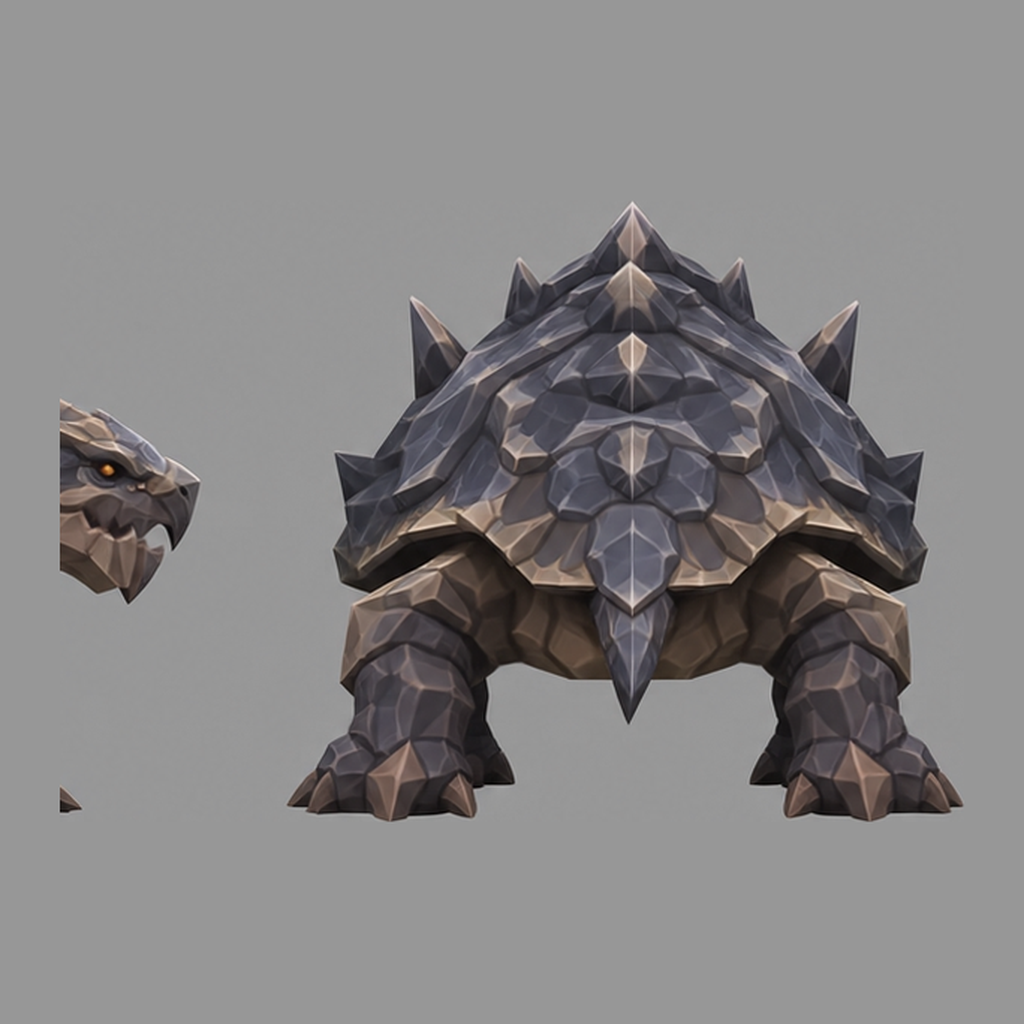
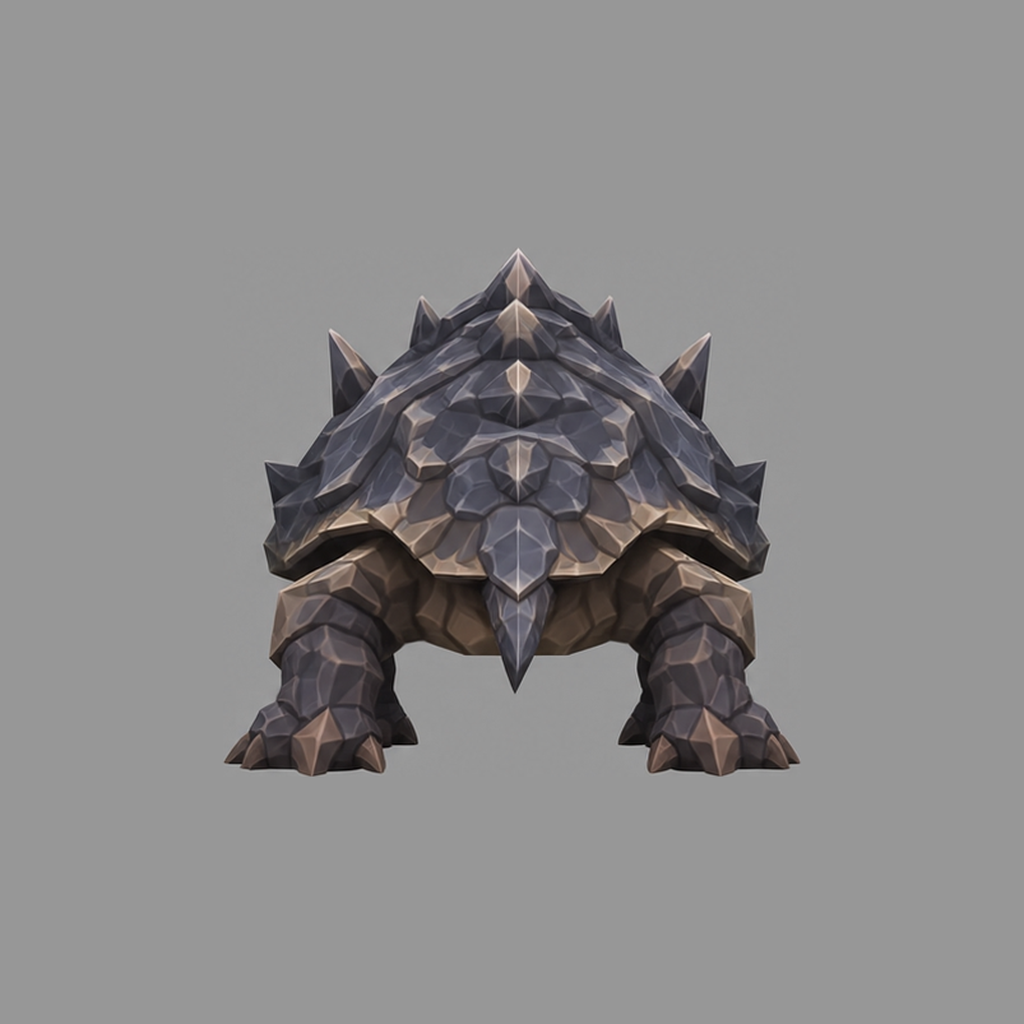
Shellback-Ansichten aus dem Raster nach Inhalt neu geschnitten, Sandwurm mit rundem Maul, Backlog G3

Changed region(s): [[0.2188, 0.1875, 0.9375, 0.8125], [0.0312, 0.375, 0.2188, 0.5938], [0.0625, 0.7812, 0.0938, 0.8125]]

diff --git a/PROMPTS_ALLE.md b/PROMPTS_ALLE.md
@@ -524,7 +524,7 @@ Image 1 is my concept art of this creature - a small, blurry crop: take the over
 
 Paint ONE clean, sharp, high-resolution design image of my creature "Sand Leviathan". Stay true to the concept - same character, silhouette, body parts and colors - but redraw it cleanly with these details:
 
-A huge, legless desert worm - ancient, crushing and terrifying, bursting out of the dunes. The body is long and thick and made of ribbed, ring-shaped segments, sandy beige and ochre with darker brown bands between the rings, tapering toward the tail end. Toward the head the segments become darker and rougher, rust-red and brown, with ragged armor plates. The head is a long, crocodile-like maw packed with jagged teeth, framed by rows of hooked spines and tooth-like tendrils around the jaws and throat. Small dark eyes sit on top of the head. Materials: tough, dry, ribbed hide on the body, bony armor on the head.
+A huge, legless desert worm - ancient, crushing and terrifying, bursting out of the dunes. The body is long and thick and made of ribbed, ring-shaped segments, sandy beige and ochre with darker brown bands between the rings, tapering toward the tail end. Toward the head the segments become darker and rougher, rust-red and brown, with ragged armor plates. The head ends in a wide, round maw like a lamprey's: rings of long, inward-curving fangs around a dark red throat, framed by a ruff of hooked spines and tooth-like tendrils. The armored head behind the maw carries small dark eyes. Materials: tough, dry, ribbed hide on the body, bony armor on the head.
 
 Style: clean low-poly stylized game creature: faceted planar surfaces with crisp edges, simplified chunky shapes, bold readable silhouette that reads well from a top-down camera, strong color blocking with simple painted gradients per facet, colorful yet dark palette, gameplay-focused readability, rendered like a stylized low-poly 3D game asset.
 
@@ -538,7 +538,7 @@ Anhängen: 1. `H:\AIProjects\3D AI\01_kreatur_pipeline\creatures\sand_leviathan\
 ```text
 Image 1 is the approved, binding design of my creature "Sand Leviathan": keep its anatomy, shapes, colors, materials, style and the number of all parts exactly. Do not redesign, add or remove anything.
 
-Description (also for the hidden sides): A huge, legless desert worm - ancient, crushing and terrifying, bursting out of the dunes. The body is long and thick and made of ribbed, ring-shaped segments, sandy beige and ochre with darker brown bands between the rings, tapering toward the tail end. Toward the head the segments become darker and rougher, rust-red and brown, with ragged armor plates. The head is a long, crocodile-like maw packed with jagged teeth, framed by rows of hooked spines and tooth-like tendrils around the jaws and throat. Small dark eyes sit on top of the head. Materials: tough, dry, ribbed hide on the body, bony armor on the head.
+Description (also for the hidden sides): A huge, legless desert worm - ancient, crushing and terrifying, bursting out of the dunes. The body is long and thick and made of ribbed, ring-shaped segments, sandy beige and ochre with darker brown bands between the rings, tapering toward the tail end. Toward the head the segments become darker and rougher, rust-red and brown, with ragged armor plates. The head ends in a wide, round maw like a lamprey's: rings of long, inward-curving fangs around a dark red throat, framed by a ruff of hooked spines and tooth-like tendrils. The armored head behind the maw carries small dark eyes. Materials: tough, dry, ribbed hide on the body, bony armor on the head.
 
 Create 4 SEPARATE images (not a grid) of exactly this creature - one frozen 3D model, the camera circles around it:
 1. front.png - facing the camera

diff --git a/creatures/sand_leviathan/prompts.md b/creatures/sand_leviathan/prompts.md
@@ -16,7 +16,7 @@ Image 1 is my concept art of this creature - a small, blurry crop: take the over
 
 Paint ONE clean, sharp, high-resolution design image of my creature "Sand Leviathan". Stay true to the concept - same character, silhouette, body parts and colors - but redraw it cleanly with these details:
 
-A huge, legless desert worm - ancient, crushing and terrifying, bursting out of the dunes. The body is long and thick and made of ribbed, ring-shaped segments, sandy beige and ochre with darker brown bands between the rings, tapering toward the tail end. Toward the head the segments become darker and rougher, rust-red and brown, with ragged armor plates. The head is a long, crocodile-like maw packed with jagged teeth, framed by rows of hooked spines and tooth-like tendrils around the jaws and throat. Small dark eyes sit on top of the head. Materials: tough, dry, ribbed hide on the body, bony armor on the head.
+A huge, legless desert worm - ancient, crushing and terrifying, bursting out of the dunes. The body is long and thick and made of ribbed, ring-shaped segments, sandy beige and ochre with darker brown bands between the rings, tapering toward the tail end. Toward the head the segments become darker and rougher, rust-red and brown, with ragged armor plates. The head ends in a wide, round maw like a lamprey's: rings of long, inward-curving fangs around a dark red throat, framed by a ruff of hooked spines and tooth-like tendrils. The armored head behind the maw carries small dark eyes. Materials: tough, dry, ribbed hide on the body, bony armor on the head.
 
 Style: clean low-poly stylized game creature: faceted planar surfaces with crisp edges, simplified chunky shapes, bold readable silhouette that reads well from a top-down camera, strong color blocking with simple painted gradients per facet, colorful yet dark palette, gameplay-focused readability, rendered like a stylized low-poly 3D game asset.
 
@@ -33,7 +33,7 @@ Neuer ChatGPT-Chat. **Anhängen:** 1. `H:\AIProjects\3D AI\01_kreatur_pipeline\c
 ```text
 Image 1 is the approved, binding design of my creature "Sand Leviathan": keep its anatomy, shapes, colors, materials, style and the number of all parts exactly. Do not redesign, add or remove anything.
 
-Description (also for the hidden sides): A huge, legless desert worm - ancient, crushing and terrifying, bursting out of the dunes. The body is long and thick and made of ribbed, ring-shaped segments, sandy beige and ochre with darker brown bands between the rings, tapering toward the tail end. Toward the head the segments become darker and rougher, rust-red and brown, with ragged armor plates. The head is a long, crocodile-like maw packed with jagged teeth, framed by rows of hooked spines and tooth-like tendrils around the jaws and throat. Small dark eyes sit on top of the head. Materials: tough, dry, ribbed hide on the body, bony armor on the head.
+Description (also for the hidden sides): A huge, legless desert worm - ancient, crushing and terrifying, bursting out of the dunes. The body is long and thick and made of ribbed, ring-shaped segments, sandy beige and ochre with darker brown bands between the rings, tapering toward the tail end. Toward the head the segments become darker and rougher, rust-red and brown, with ragged armor plates. The head ends in a wide, round maw like a lamprey's: rings of long, inward-curving fangs around a dark red throat, framed by a ruff of hooked spines and tooth-like tendrils. The armored head behind the maw carries small dark eyes. Materials: tough, dry, ribbed hide on the body, bony armor on the head.
 
 Create 4 SEPARATE images (not a grid) of exactly this creature - one frozen 3D model, the camera circles around it:
 1. front.png - facing the camera

diff --git a/BACKLOG.md b/BACKLOG.md
@@ -52,6 +52,7 @@ Status: ✅ erledigt · 🔄 Subagent arbeitet · ⏭ als Nächstes · ⏸ zurü
 |---|---|---|
 | G1 | Monster-Datenbank `H:\AIProjects\poe2-MTXeastCatalog\data\catalog.json` (alle PoE-Monster) eigenständig auswerten: Monsterarten auflisten, semantisch in 3D-Kategorien einordnen → lange Liste, welche **Skelette und Bewegungsmuster** wir noch brauchen und welche **Monsterarten zu unserem Game passen**. **Inspiration, keine Kopie!** Ziel des Spiels: später mindestens **50–100 Basis-Monster**, je 5–6 Biom-Varianten oder Elite-Addons. Hinweis des Nutzers: von 7.133 Einträgen sind nur ~2.800 echte Monster, der Rest Varianten. | ✅ `RECHERCHE_MONSTERARTEN.md` (2.872 echte Monster, Stand DB 2026-11-17T20:25Z, Schema v2). Vorhandene 8 Skelette decken 71,9 % der Kreaturen; mit `upright`, `winged`, `amorph`, `static` 99,9 %. 83 generische Basis-Archetypen, 6er-Variantenschema, Reihenfolge: spider → leopard/bear → upright (golem, brute) → wraith/orb → winged → static → slime → frog/badger/monkey. Zuordnung: `temp/monster_research/kategorien.csv`. |
 | G2 | Recherche-Bericht lesen; offene Roster-Liste mit den Erkenntnissen erweitern; je Lücke 2–3 konkrete Kreatur-Vorschläge mit passendem Bewegungsmuster, Nutzer wählt aus. | ✅ Nutzer 2026-11-18: für **alle 16** Zeilen Kreaturen anlegen, Claude wählt; Biome erweitern. Erledigt (Agent Roster-Erweiterung): `templates/biomes.toml` (18 Biome), 16 Kreaturen in `creatures/roster.toml` mit `biome`/`role`/6 `varianten`, Ordner + creature.toml + prompts.md (ohne Concept: Stufe 1 = Design-Entwurf, du prüfst), neue Baupläne upright/winged/floater/amorph/static, PROMPTS_ALLE.md mit 36 Kreaturen. Auswahl: `ROSTER_ERWEITERUNG_VORSCHLAG.md` → „Gewählt“. ❓ Nutzer: Auswahl und Design-Bilder prüfen. |
+| G3 | Nächste Bewegungsmuster (Nutzer 2026-11-18): mantis, spider, tortoise, gorilla, sandworm, frog, monkey, centipede, treant, drake, bird. Zuerst Broodling, Shellback, Sand Leviathan zu Tripo. Shellback sorgfältig neu schneiden. Sandwurm: **rundes Maul behalten** (besser als Krokodilmaul). | 🔄 Shellback aus `grid_4_ansichten.png` nach Inhalt neu geschnitten (Köpfe waren ins Nachbarbild gerutscht), gemeinsamer Maßstab; Sandwurm-`look` auf rundes Maul. Mantis/Gorilla brauchen neue Bilder (Beinzahl bzw. Pose/Schwanz inkonsistent). |
 
 ## Warteschlange Subagenten (ab 2026-11-18: max. 1 Bau-Agent + 1 leichter Agent gleichzeitig)
 
